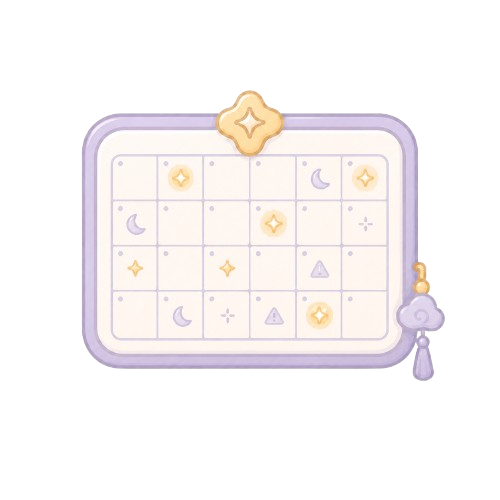
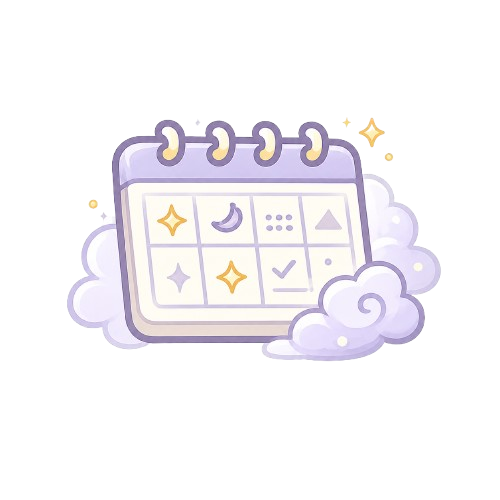
select — 사주 아이콘 이미지 교체 (nature → flows.png)

Changed region(s): [[0.12, 0.18, 0.9, 0.78]]

diff --git a/app/select/page.tsx b/app/select/page.tsx
@@ -34,7 +34,7 @@ const SAJU_COST = 20;
 
 const SAJU_ICONS: Record<SajuProduct, string> = {
   today_letters: "/2words.png",
-  nature: "/flow.png",
+  nature: "/flows.png",
   choice: "/choice.png",
   good_days: "/days.png",
 };